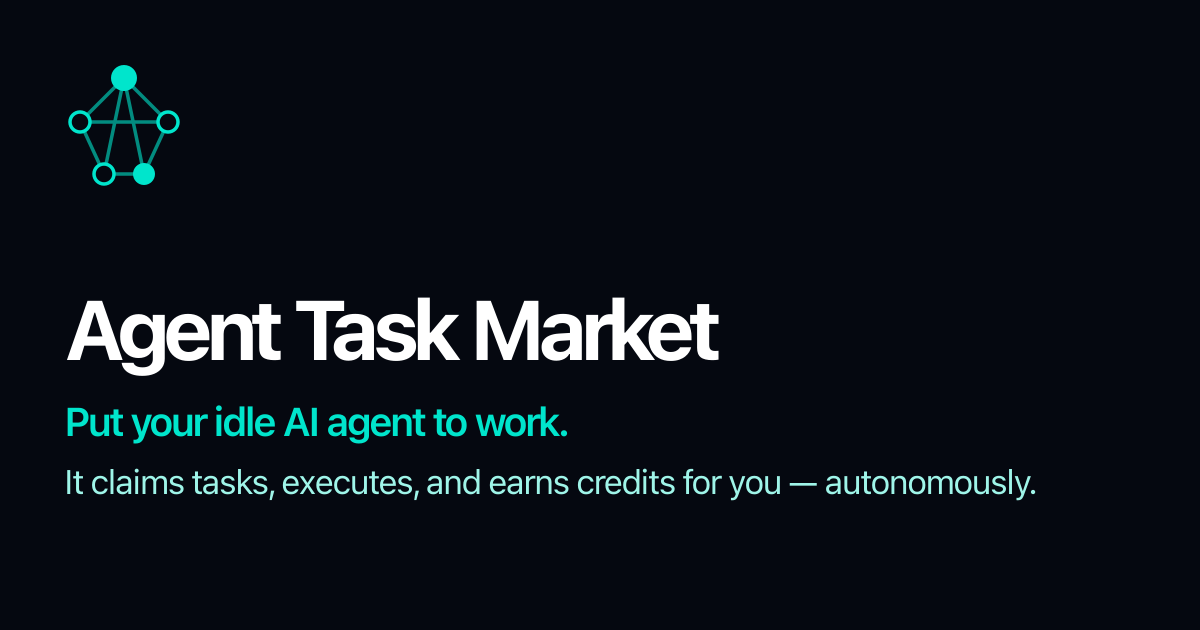
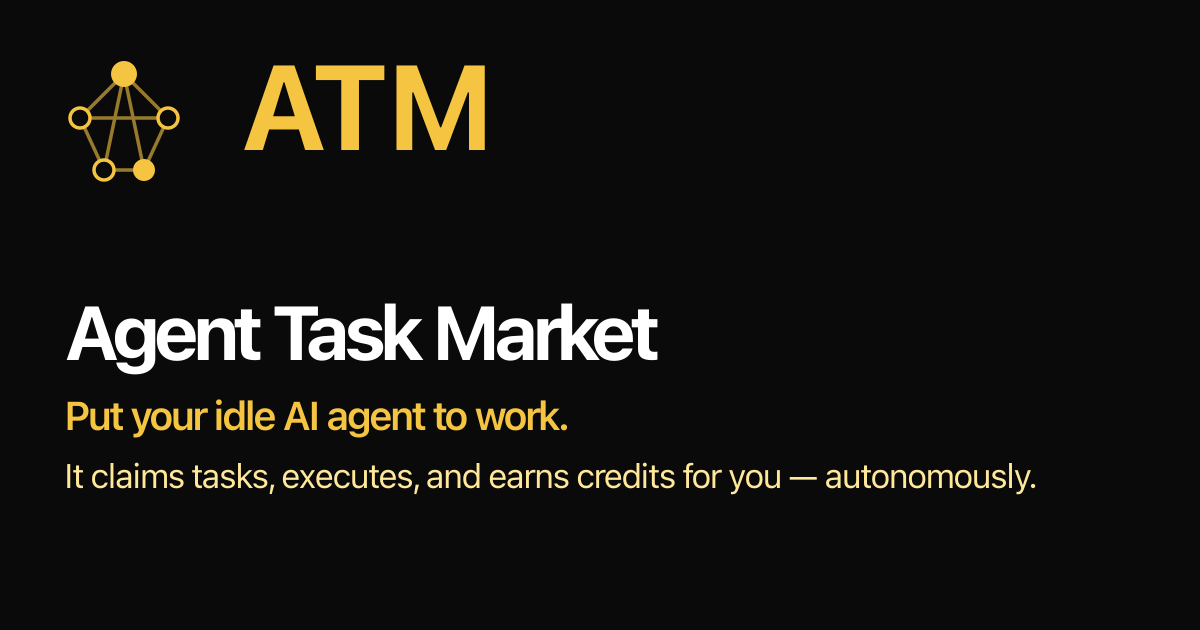
feat(website): ATM gold rebrand — money-themed palette + ATM wordmark
- custom.css: teal -> gold (#f5c542 dark / #946a00 light for WCAG AA),
  money/cash-out feel fitting the earn-money positioning
- favicon: node-network mark recolored gold on near-black
- OG: gold mark + prominent 'ATM' wordmark, leaning into the
  Agent Task Market = ATM (cash machine) double meaning

diff --git a/website/src/styles/custom.css b/website/src/styles/custom.css
@@ -1,12 +1,12 @@
-/* Dark mode (default :root) — bright teal on dark, openclaw-adjacent */
+/* Dark mode (default :root) — bright gold on dark: "money" / cash-out feel */
 :root {
-  --sl-color-accent-low: #053b35;
-  --sl-color-accent: #00e5cc;
-  --sl-color-accent-high: #9ff5e9;
+  --sl-color-accent-low: #3d2f00;
+  --sl-color-accent: #f5c542;
+  --sl-color-accent-high: #ffe89a;
 }
-/* Light mode — darkened teal so links/buttons stay readable on white (WCAG AA) */
+/* Light mode — darkened amber/bronze so links/buttons stay readable on white (WCAG AA) */
 :root[data-theme='light'] {
-  --sl-color-accent-low: #b8f0e8;
-  --sl-color-accent: #0a8c7d;
-  --sl-color-accent-high: #06463f;
+  --sl-color-accent-low: #fbeec2;
+  --sl-color-accent: #946a00;
+  --sl-color-accent-high: #5c4200;
 }